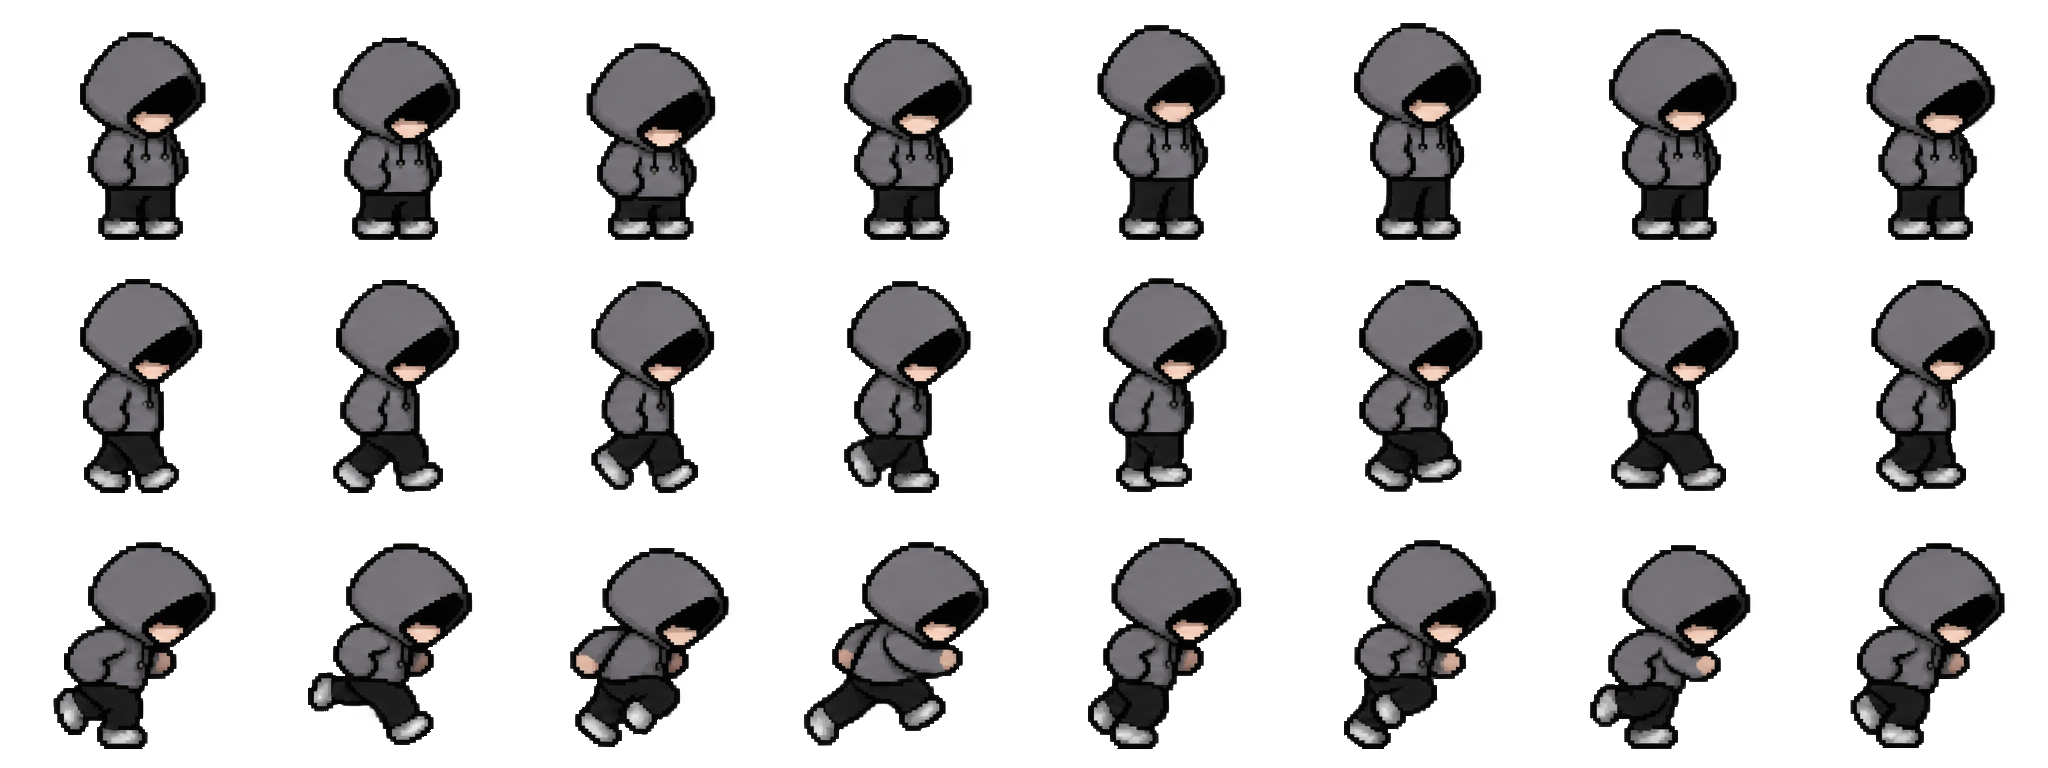
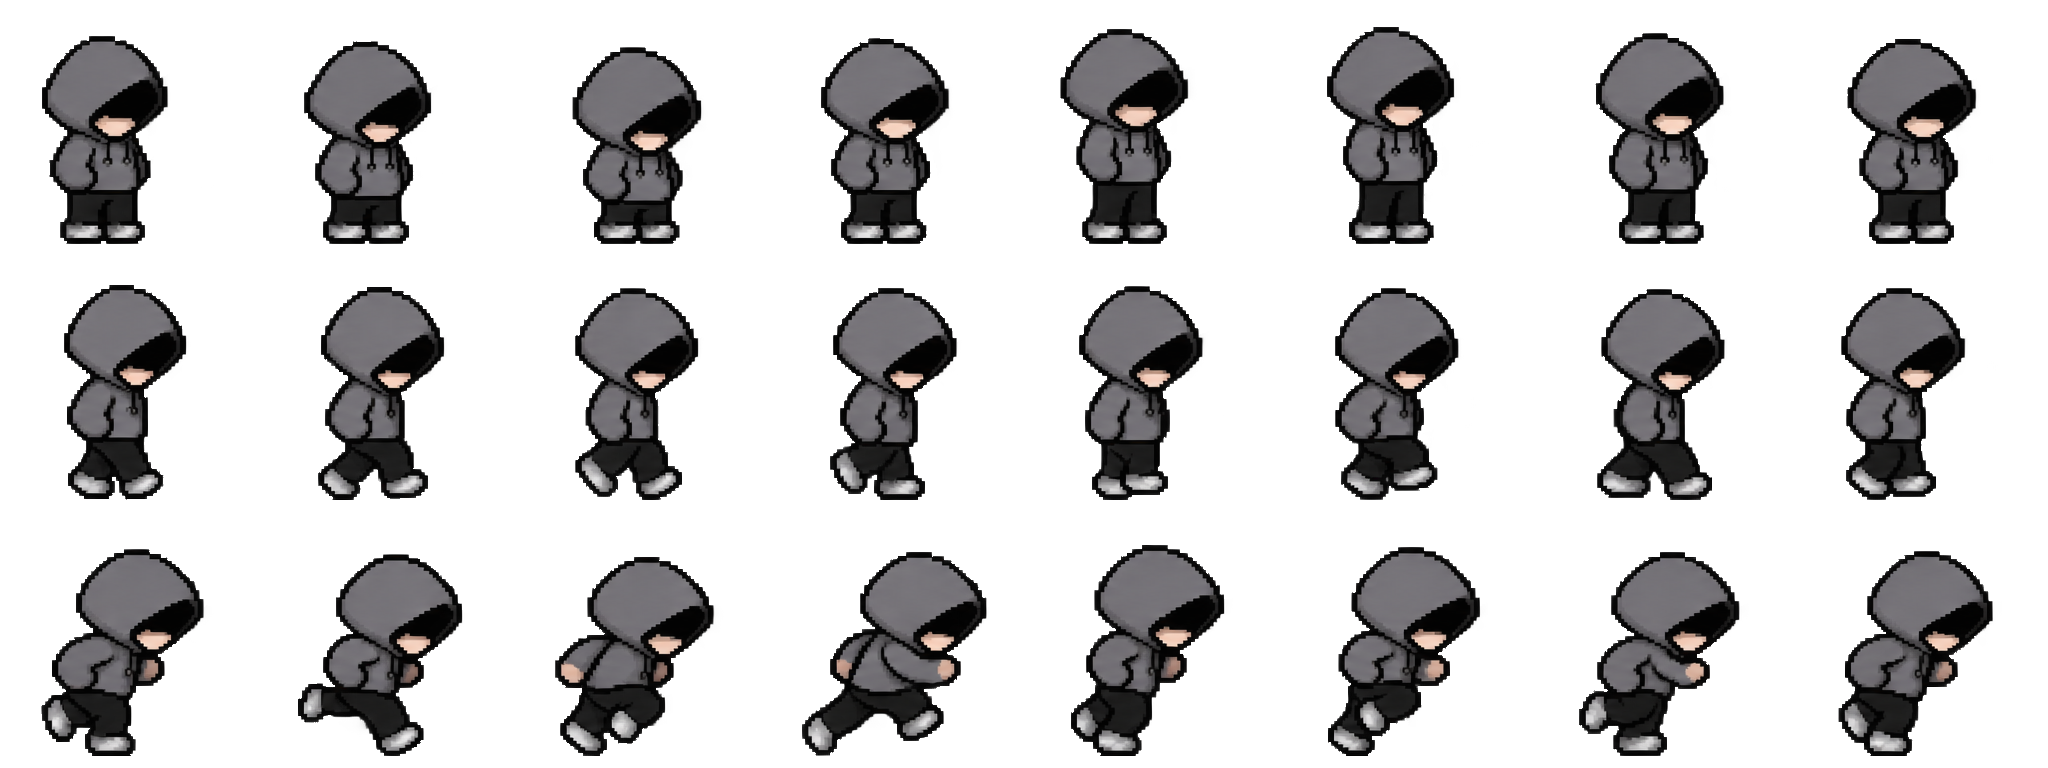
캐릭터 애니메이션 정렬 개선

diff --git a/tools/prepare_character.py b/tools/prepare_character.py
@@ -6,6 +6,8 @@ from pathlib import Path
 
 from PIL import Image
 
+from settings import FRAME_BOTTOM_PADDING, FRAME_HEIGHT, FRAME_WIDTH
+
 ROOT = Path(__file__).resolve().parents[1]
 COLUMNS, ROWS = 8, 3
 
@@ -13,8 +15,8 @@ COLUMNS, ROWS = 8, 3
 def prepare(source=ROOT / "MainCharacter.png", output=ROOT / "assets/character.png", preview=False):
     with Image.open(source) as original:
         sheet = original.convert("RGBA")
-    if sheet.width % COLUMNS or sheet.height % ROWS:
-        raise ValueError("Sprite sheet must contain an 8 by 3 grid")
+    if sheet.size != (COLUMNS * FRAME_WIDTH, ROWS * FRAME_HEIGHT):
+        raise ValueError("Sprite sheet must contain 8 by 3 cells of 256 by 256 pixels")
     width, height = sheet.width // COLUMNS, sheet.height // ROWS
     print(f"Source corner: {sheet.getpixel((0, 0))}; extrema: {sheet.getextrema()}")
     for row in range(ROWS):
@@ -38,9 +40,16 @@ def prepare(source=ROOT / "MainCharacter.png", output=ROOT / "assets/character.p
                     continue
                 pixels[x, y] = (r, g, b, 0)
                 queue.extend(((x - 1, y), (x + 1, y), (x, y - 1), (x, y + 1)))
-            if frame.getbbox() is None:
+            bounds = frame.getbbox()
+            if bounds is None:
                 raise ValueError(f"No character remained at row {row}, column {column}")
-            sheet.paste(frame, box)
+            sprite = frame.crop(bounds)
+            aligned = Image.new("RGBA", frame.size, (0, 0, 0, 0))
+            aligned.paste(sprite, (
+                (width - sprite.width) // 2,
+                height - FRAME_BOTTOM_PADDING - sprite.height,
+            ))
+            sheet.paste(aligned, box)
     output = Path(output)
     output.parent.mkdir(parents=True, exist_ok=True)
     sheet.save(output)

diff --git a/rendering.py b/rendering.py
@@ -1,6 +1,8 @@
 """Rendering helpers; game state remains independent of pico2d."""
 
-from settings import CHARACTER_SCALE, FRAME_HEIGHT, FRAME_WIDTH, GROUND_Y, HEIGHT, WIDTH
+from settings import (
+    CHARACTER_SCALE, FRAME_BOTTOM_PADDING, FRAME_HEIGHT, FRAME_WIDTH, HEIGHT, WIDTH,
+)
 
 
 def draw_background(image):
@@ -11,8 +13,9 @@ def draw_background(image):
 def draw_character(image, player):
     width = FRAME_WIDTH * CHARACTER_SCALE
     height = FRAME_HEIGHT * CHARACTER_SCALE
+    center_y = player.foot_y + height / 2 - FRAME_BOTTOM_PADDING * CHARACTER_SCALE
     image.clip_composite_draw(
         player.frame * FRAME_WIDTH, image.h - (player.row + 1) * FRAME_HEIGHT,
         FRAME_WIDTH, FRAME_HEIGHT,
-        0, "h" if player.facing < 0 else "", player.x, player.foot_y + height / 2, width, height,
+        0, "h" if player.facing < 0 else "", player.x, center_y, width, height,
     )

diff --git a/game.py b/game.py
@@ -54,4 +54,5 @@ class Player:
             self.state = next_state
             self.animation_time = 0.0
         else:
-            self.animation_time += dt
+            duration = FRAME_COUNT / ANIMATIONS[self.state][1]
+            self.animation_time = (self.animation_time + dt) % duration

diff --git a/settings.py b/settings.py
@@ -4,6 +4,7 @@ TARGET_FPS = 60
 FRAME_WIDTH = 256
 FRAME_HEIGHT = 256
 FRAME_COUNT = 8
+FRAME_BOTTOM_PADDING = 12
 CHARACTER_SCALE = 0.6
 PLAYER_HALF_WIDTH = FRAME_WIDTH * CHARACTER_SCALE / 2
 GROUND_Y = 55

diff --git a/DEVELOPMENT.md b/DEVELOPMENT.md
@@ -28,3 +28,4 @@
 | 13 | RUN 상태, 시트 3행, 12 FPS 반복 | WALK/RUN/IDLE 전환, RUN 프레임과 행 확인 |
 | 14 | SDL 이벤트 직접 처리, 포커스 해제 시 입력 초기화 | 실제 SDL 큐로 키 조합, 해제, 포커스 이벤트 전달 확인 |
 | 15 | 전체 프레임 폭 기준 좌우 경계 제한, 경계 상태 유지 | 장시간 양방향 이동, 경계 탈출 및 순간 이동 없음 확인 |
+| 16 | 24개 프레임 수평 중앙 및 발 기준 정렬, 애니메이션 누적 시간 제한 | 정렬 시트 재생성, 컬러 합성 미리보기와 실제 창 확인 |
